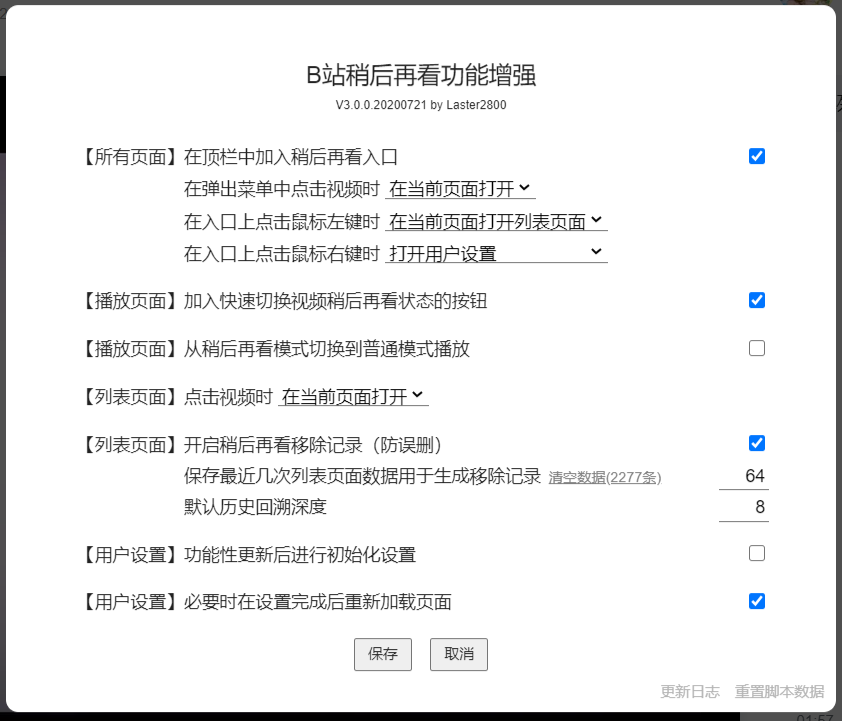
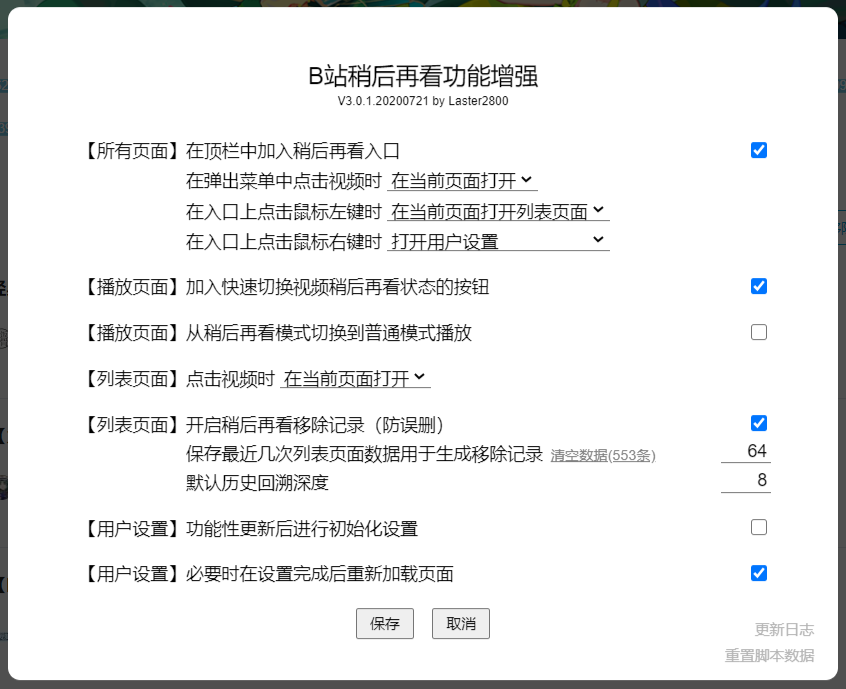
B站稍后再看功能增强
1. 统一对列表页面数据条数的说法，避免对用户产生困惑
2. 修复在主页打开设置页面或者移除记录页面，字体颜色不对的问题
3. UI 微调

diff --git a/BilibiliWatchlaterPlus/BilibiliWatchlaterPlus.js b/BilibiliWatchlaterPlus/BilibiliWatchlaterPlus.js
@@ -1,7 +1,7 @@
 // ==UserScript==
 // @id              BilibiliWatchlaterPlus@Laster2800
 // @name            B站稍后再看功能增强
-// @version         3.0.0.20200721
+// @version         3.0.1.20200721
 // @namespace       laster2800
 // @author          Laster2800
 // @description     B站稍后再看功能增强，目前功能包括UI增强、稍后再看模式自动切换至普通模式播放（重定向）、稍后再看移除记录等，支持功能设置
@@ -1487,7 +1487,7 @@
 <div class="gm-history-page">
     <div class="gm-title">稍后再看移除记录</div>
     <div class="gm-comment">
-        <div>根据最近<span id="gm-save-times">X</span>次打开列表页面时获取到的<span id="gm-record-num">X</span>条记录生成，共筛选出<span id="gm-remove-num">X</span>条移除记录。排序由首次加入到稍后再看的顺序决定，与移除出稍后再看的时间无关。如果记录太多难以定位被误删的视频，请在下方设置减少历史回溯深度。鼠标移动到内容区域可向下滚动翻页，点击对话框以外的位置退出。</div>
+        <div>根据最近<span id="gm-save-times">X</span>次打开列表页面时获取到的<span id="gm-record-num">X</span>条不重复的记录生成（总计<span id="gm-record-num-repeat">X</span>条），共筛选出<span id="gm-remove-num">X</span>条移除记录。排序由首次加入到稍后再看的顺序决定，与移除出稍后再看的时间无关。如果记录太多难以定位被误删的视频，请在下方设置减少历史回溯深度。鼠标移动到内容区域可向下滚动翻页，点击对话框以外的位置退出。</div>
         <div style="text-align:right;font-weight:bold;margin-right:1em" title="搜寻时在最近多少次列表页面数据中查找，设置较小的值能较好地定位最近移除的视频。按下回车键或输入框失去焦点时刷新数据。">历史回溯深度：<input type="text" id="gm-search-times" value="X"></div>
     </div>
 </div>
@@ -1498,6 +1498,7 @@
           el.content = null
           el.saveTimes = gm.el.history.querySelector('#gm-save-times')
           el.recordNum = gm.el.history.querySelector('#gm-record-num')
+          el.recordNumRepeat = gm.el.history.querySelector('#gm-record-num-repeat')
           el.removeNum = gm.el.history.querySelector('#gm-remove-num')
           el.shadow = gm.el.history.querySelector('.gm-shadow')
         }
@@ -1578,12 +1579,15 @@
                   var map = new Map()
                   var removeData = gm.config.removeHistoryData.toArray(el.searchTimes.current)
                   el.saveTimes.innerText = removeData.length
+                  var total = 0
                   for (var i = removeData.length - 1; i >= 0; i--) { // 后面的数据较旧，从后往前遍历
                     for (var record of removeData[i]) {
                       map.set(record.bvid, record)
                     }
+                    total += removeData[i].length
                   }
                   el.recordNum.innerText = map.size
+                  el.recordNumRepeat.innerText = total
                   for (var id of bvid) {
                     map.delete(id)
                   }
@@ -1971,6 +1975,10 @@
      */
     function addStyle() {
       GM_addStyle(`
+#${gm.id} {
+    color: black;
+}
+
 #${gm.id} .gm-setting {
     font-size: 12px;
     transition: opacity ${gm.const.fadeTime}ms ease-in-out;
@@ -2132,16 +2140,16 @@
     position: absolute;
     right: 0;
     bottom: 0;
-    margin: 0.6em 0.8em;
-    color: #b4b4b4;
+    margin: 1em 1.6em;
+    color: #cfcfcf;
     cursor: pointer;
 }
 #${gm.id} #gm-update-log {
   position: absolute;
-  right: 7em;
-  bottom: 0;
-  margin: 0.6em 0.8em;
-  color: #b4b4b4;
+  right: 0;
+  bottom: 1.8em;
+  margin: 1em 1.6em;
+  color: #cfcfcf;
   cursor: pointer;
 }
 #${gm.id} #gm-reset:hover,
